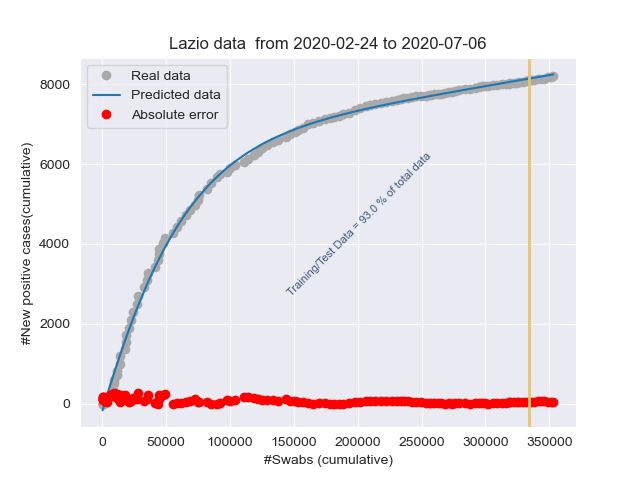
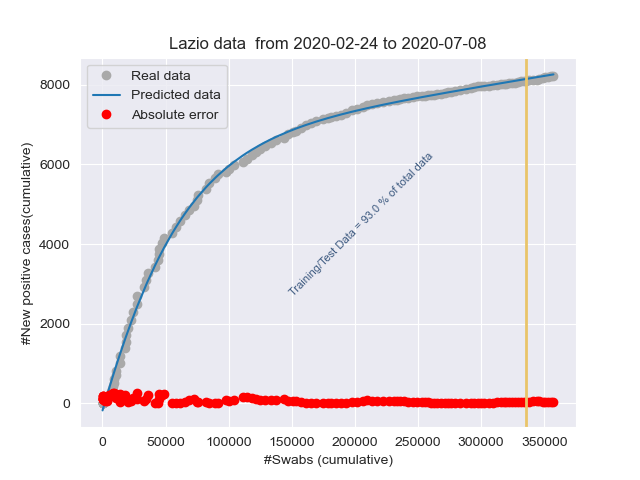
Add files via upload

diff --git a/stat_Friuli Venezia Giulia.html b/stat_Friuli Venezia Giulia.html
@@ -1,1 +1,1 @@
-<!DOCTYPE html><html lang="it"><head><title>Results</title><meta charset="utf-8"><meta name="viewport" content="width=device-width, initial-scale=1"><link rel="stylesheet" href="bootstrap.min.css"><script src="https://ajax.googleapis.com/ajax/libs/jquery/3.4.1/jquery.min.js"></script><script src="https://maxcdn.bootstrapcdn.com/bootstrap/3.4.1/js/bootstrap.min.js"></script></head><body><h3>Day: 2020-07-06</h3><p class="lead my-3">New positive cases: <b>0</b></p><p class="lead my-3">Variation of positive cases: <b>0.0%</b></p><p class="lead my-3">Number of swabs: <b>663.0</b></p><p class="lead my-3">Variation of swabs: <b>0.33%</b></p><p class="lead my-3">Postive cases/Swabs: <b>0.0 %</b></p><p class="lead my-3">Number of people admitted to Intensive care: <b>0</b></p><p class="lead my-3">Number of recovered people: <b>2.0</b></p><p class="lead my-3">Number of dead people: <b>0.0</b></p><h3>Total</h3><p class="lead my-3">Population of  Friuli Venezia Giulia: <b>1215220</b> <a href="http://dati.istat.it/Index.aspx?QueryId=18548" target="_blank">ISTAT data</a></p><p class="lead my-3">Total number of positive cases from 2020-02-24 00:00:00 to 2020-07-06: <b> 3326</b></p><p class="lead my-3">Total number of swabs from 2020-02-24 00:00:00 to 2020-07-06: <b> 200651</b></p><p class="lead my-3">TotalSwabs/Population: <b> 16.51%</b></p></body></html>
+<!DOCTYPE html><html lang="it"><head><title>Results</title><meta charset="utf-8"><meta name="viewport" content="width=device-width, initial-scale=1"><link rel="stylesheet" href="bootstrap.min.css"><script src="https://ajax.googleapis.com/ajax/libs/jquery/3.4.1/jquery.min.js"></script><script src="https://maxcdn.bootstrapcdn.com/bootstrap/3.4.1/js/bootstrap.min.js"></script></head><body><h3>Day: 2020-07-08</h3><p class="lead my-3">New positive cases: <b>4</b></p><p class="lead my-3">Variation of positive cases: <b>300.0%</b></p><p class="lead my-3">Number of swabs: <b>1827.0</b></p><p class="lead my-3">Variation of swabs: <b>0.9%</b></p><p class="lead my-3">Postive cases/Swabs: <b>0.22 %</b></p><p class="lead my-3">Number of people admitted to Intensive care: <b>0</b></p><p class="lead my-3">Number of recovered people: <b>-6.0</b></p><p class="lead my-3">Number of dead people: <b>0.0</b></p><h3>Total</h3><p class="lead my-3">Population of  Friuli Venezia Giulia: <b>1215220</b> <a href="http://dati.istat.it/Index.aspx?QueryId=18548" target="_blank">ISTAT data</a></p><p class="lead my-3">Total number of positive cases from 2020-02-24 00:00:00 to 2020-07-08: <b> 3331</b></p><p class="lead my-3">Total number of swabs from 2020-02-24 00:00:00 to 2020-07-08: <b> 204580</b></p><p class="lead my-3">TotalSwabs/Population: <b> 16.83%</b></p></body></html>

diff --git a/stat_Lombardia.html b/stat_Lombardia.html
@@ -1,1 +1,1 @@
-<!DOCTYPE html><html lang="it"><head><title>Results</title><meta charset="utf-8"><meta name="viewport" content="width=device-width, initial-scale=1"><link rel="stylesheet" href="bootstrap.min.css"><script src="https://ajax.googleapis.com/ajax/libs/jquery/3.4.1/jquery.min.js"></script><script src="https://maxcdn.bootstrapcdn.com/bootstrap/3.4.1/js/bootstrap.min.js"></script></head><body><h3>Day: 2020-07-06</h3><p class="lead my-3">New positive cases: <b>111</b></p><p class="lead my-3">Variation of positive cases: <b>13.27%</b></p><p class="lead my-3">Number of swabs: <b>5855.0</b></p><p class="lead my-3">Variation of swabs: <b>0.54%</b></p><p class="lead my-3">Postive cases/Swabs: <b>1.9 %</b></p><p class="lead my-3">Number of people admitted to Intensive care: <b>36</b></p><p class="lead my-3">Number of recovered people: <b>61.0</b></p><p class="lead my-3">Number of dead people: <b>3.0</b></p><h3>Total</h3><p class="lead my-3">Population of  Lombardia: <b>10060574</b> <a href="http://dati.istat.it/Index.aspx?QueryId=18548" target="_blank">ISTAT data</a></p><p class="lead my-3">Total number of positive cases from 2020-02-24 00:00:00 to 2020-07-06: <b> 94521</b></p><p class="lead my-3">Total number of swabs from 2020-02-24 00:00:00 to 2020-07-06: <b> 1088960</b></p><p class="lead my-3">TotalSwabs/Population: <b> 10.82%</b></p></body></html>
+<!DOCTYPE html><html lang="it"><head><title>Results</title><meta charset="utf-8"><meta name="viewport" content="width=device-width, initial-scale=1"><link rel="stylesheet" href="bootstrap.min.css"><script src="https://ajax.googleapis.com/ajax/libs/jquery/3.4.1/jquery.min.js"></script><script src="https://maxcdn.bootstrapcdn.com/bootstrap/3.4.1/js/bootstrap.min.js"></script></head><body><h3>Day: 2020-07-08</h3><p class="lead my-3">New positive cases: <b>71</b></p><p class="lead my-3">Variation of positive cases: <b>33.96%</b></p><p class="lead my-3">Number of swabs: <b>10675.0</b></p><p class="lead my-3">Variation of swabs: <b>0.98%</b></p><p class="lead my-3">Postive cases/Swabs: <b>0.67 %</b></p><p class="lead my-3">Number of people admitted to Intensive care: <b>34</b></p><p class="lead my-3">Number of recovered people: <b>673.0</b></p><p class="lead my-3">Number of dead people: <b>12.0</b></p><h3>Total</h3><p class="lead my-3">Population of  Lombardia: <b>10060574</b> <a href="http://dati.istat.it/Index.aspx?QueryId=18548" target="_blank">ISTAT data</a></p><p class="lead my-3">Total number of positive cases from 2020-02-24 00:00:00 to 2020-07-08: <b> 94645</b></p><p class="lead my-3">Total number of swabs from 2020-02-24 00:00:00 to 2020-07-08: <b> 1103015</b></p><p class="lead my-3">TotalSwabs/Population: <b> 10.96%</b></p></body></html>

diff --git a/stat_Emilia-Romagna.html b/stat_Emilia-Romagna.html
@@ -1,1 +1,1 @@
-<!DOCTYPE html><html lang="it"><head><title>Results</title><meta charset="utf-8"><meta name="viewport" content="width=device-width, initial-scale=1"><link rel="stylesheet" href="bootstrap.min.css"><script src="https://ajax.googleapis.com/ajax/libs/jquery/3.4.1/jquery.min.js"></script><script src="https://maxcdn.bootstrapcdn.com/bootstrap/3.4.1/js/bootstrap.min.js"></script></head><body><h3>Day: 2020-07-06</h3><p class="lead my-3">New positive cases: <b>38</b></p><p class="lead my-3">Variation of positive cases: <b>58.33%</b></p><p class="lead my-3">Number of swabs: <b>2371.0</b></p><p class="lead my-3">Variation of swabs: <b>0.46%</b></p><p class="lead my-3">Postive cases/Swabs: <b>1.6 %</b></p><p class="lead my-3">Number of people admitted to Intensive care: <b>9</b></p><p class="lead my-3">Number of recovered people: <b>3.0</b></p><p class="lead my-3">Number of dead people: <b>0.0</b></p><h3>Total</h3><p class="lead my-3">Population of  Emilia-Romagna: <b>4459477</b> <a href="http://dati.istat.it/Index.aspx?QueryId=18548" target="_blank">ISTAT data</a></p><p class="lead my-3">Total number of positive cases from 2020-02-24 00:00:00 to 2020-07-06: <b> 28679</b></p><p class="lead my-3">Total number of swabs from 2020-02-24 00:00:00 to 2020-07-06: <b> 519586</b></p><p class="lead my-3">TotalSwabs/Population: <b> 11.65%</b></p></body></html>
+<!DOCTYPE html><html lang="it"><head><title>Results</title><meta charset="utf-8"><meta name="viewport" content="width=device-width, initial-scale=1"><link rel="stylesheet" href="bootstrap.min.css"><script src="https://ajax.googleapis.com/ajax/libs/jquery/3.4.1/jquery.min.js"></script><script src="https://maxcdn.bootstrapcdn.com/bootstrap/3.4.1/js/bootstrap.min.js"></script></head><body><h3>Day: 2020-07-08</h3><p class="lead my-3">New positive cases: <b>49</b></p><p class="lead my-3">Variation of positive cases: <b>58.06%</b></p><p class="lead my-3">Number of swabs: <b>4877.0</b></p><p class="lead my-3">Variation of swabs: <b>0.93%</b></p><p class="lead my-3">Postive cases/Swabs: <b>1.0 %</b></p><p class="lead my-3">Number of people admitted to Intensive care: <b>10</b></p><p class="lead my-3">Number of recovered people: <b>38.0</b></p><p class="lead my-3">Number of dead people: <b>0.0</b></p><h3>Total</h3><p class="lead my-3">Population of  Emilia-Romagna: <b>4459477</b> <a href="http://dati.istat.it/Index.aspx?QueryId=18548" target="_blank">ISTAT data</a></p><p class="lead my-3">Total number of positive cases from 2020-02-24 00:00:00 to 2020-07-08: <b> 28759</b></p><p class="lead my-3">Total number of swabs from 2020-02-24 00:00:00 to 2020-07-08: <b> 531089</b></p><p class="lead my-3">TotalSwabs/Population: <b> 11.91%</b></p></body></html>

diff --git a/stat_Italy.html b/stat_Italy.html
@@ -1,1 +1,1 @@
-<!DOCTYPE html><html lang="it"><head><title>Results</title><meta charset="utf-8"><meta name="viewport" content="width=device-width, initial-scale=1"><link rel="stylesheet" href="bootstrap.min.css"><script src="https://ajax.googleapis.com/ajax/libs/jquery/3.4.1/jquery.min.js"></script><script src="https://maxcdn.bootstrapcdn.com/bootstrap/3.4.1/js/bootstrap.min.js"></script></head><body><h3>Day: 2020-07-06</h3><p class="lead my-3">New positive cases: <b>208</b></p><p class="lead my-3">Variation of positive cases: <b>8.33%</b></p><p class="lead my-3">Number of swabs: <b>22166.0</b></p><p class="lead my-3">Variation of swabs: <b>0.39%</b></p><p class="lead my-3">Postive cases/Swabs: <b>0.94 %</b></p><p class="lead my-3">Number of people admitted to Intensive care: <b>72</b></p><p class="lead my-3">Number of recovered people: <b>133.0</b></p><p class="lead my-3">Number of dead people: <b>8.0</b></p><h3>Total</h3><p class="lead my-3">Population of  Italy: <b>60359546</b> <a href="http://dati.istat.it/Index.aspx?QueryId=18548" target="_blank">ISTAT data</a></p><p class="lead my-3">Total number of positive cases from 2020-02-24 00:00:00 to 2020-07-06: <b> 241841</b></p><p class="lead my-3">Total number of swabs from 2020-02-24 00:00:00 to 2020-07-06: <b> 5660454</b></p><p class="lead my-3">TotalSwabs/Population: <b> 9.38%</b></p></body></html>
+<!DOCTYPE html><html lang="it"><head><title>Results</title><meta charset="utf-8"><meta name="viewport" content="width=device-width, initial-scale=1"><link rel="stylesheet" href="bootstrap.min.css"><script src="https://ajax.googleapis.com/ajax/libs/jquery/3.4.1/jquery.min.js"></script><script src="https://maxcdn.bootstrapcdn.com/bootstrap/3.4.1/js/bootstrap.min.js"></script></head><body><h3>Day: 2020-07-08</h3><p class="lead my-3">New positive cases: <b>193</b></p><p class="lead my-3">Variation of positive cases: <b>39.86%</b></p><p class="lead my-3">Number of swabs: <b>50443.0</b></p><p class="lead my-3">Variation of swabs: <b>0.88%</b></p><p class="lead my-3">Postive cases/Swabs: <b>0.38 %</b></p><p class="lead my-3">Number of people admitted to Intensive care: <b>71</b></p><p class="lead my-3">Number of recovered people: <b>825.0</b></p><p class="lead my-3">Number of dead people: <b>15.0</b></p><h3>Total</h3><p class="lead my-3">Population of  Italy: <b>60359546</b> <a href="http://dati.istat.it/Index.aspx?QueryId=18548" target="_blank">ISTAT data</a></p><p class="lead my-3">Total number of positive cases from 2020-02-24 00:00:00 to 2020-07-08: <b> 242172</b></p><p class="lead my-3">Total number of swabs from 2020-02-24 00:00:00 to 2020-07-08: <b> 5754116</b></p><p class="lead my-3">TotalSwabs/Population: <b> 9.53%</b></p></body></html>

diff --git a/stat_Piemonte.html b/stat_Piemonte.html
@@ -1,1 +1,1 @@
-<!DOCTYPE html><html lang="it"><head><title>Results</title><meta charset="utf-8"><meta name="viewport" content="width=device-width, initial-scale=1"><link rel="stylesheet" href="bootstrap.min.css"><script src="https://ajax.googleapis.com/ajax/libs/jquery/3.4.1/jquery.min.js"></script><script src="https://maxcdn.bootstrapcdn.com/bootstrap/3.4.1/js/bootstrap.min.js"></script></head><body><h3>Day: 2020-07-06</h3><p class="lead my-3">New positive cases: <b>6</b></p><p class="lead my-3">Variation of positive cases: <b>-66.67%</b></p><p class="lead my-3">Number of swabs: <b>1461.0</b></p><p class="lead my-3">Variation of swabs: <b>0.34%</b></p><p class="lead my-3">Postive cases/Swabs: <b>0.41 %</b></p><p class="lead my-3">Number of people admitted to Intensive care: <b>9</b></p><p class="lead my-3">Number of recovered people: <b>13.0</b></p><p class="lead my-3">Number of dead people: <b>2.0</b></p><h3>Total</h3><p class="lead my-3">Population of  Piemonte: <b>4356406</b> <a href="http://dati.istat.it/Index.aspx?QueryId=18548" target="_blank">ISTAT data</a></p><p class="lead my-3">Total number of positive cases from 2020-02-24 00:00:00 to 2020-07-06: <b> 31429</b></p><p class="lead my-3">Total number of swabs from 2020-02-24 00:00:00 to 2020-07-06: <b> 431761</b></p><p class="lead my-3">TotalSwabs/Population: <b> 9.91%</b></p></body></html>
+<!DOCTYPE html><html lang="it"><head><title>Results</title><meta charset="utf-8"><meta name="viewport" content="width=device-width, initial-scale=1"><link rel="stylesheet" href="bootstrap.min.css"><script src="https://ajax.googleapis.com/ajax/libs/jquery/3.4.1/jquery.min.js"></script><script src="https://maxcdn.bootstrapcdn.com/bootstrap/3.4.1/js/bootstrap.min.js"></script></head><body><h3>Day: 2020-07-08</h3><p class="lead my-3">New positive cases: <b>25</b></p><p class="lead my-3">Variation of positive cases: <b>400.0%</b></p><p class="lead my-3">Number of swabs: <b>3415.0</b></p><p class="lead my-3">Variation of swabs: <b>0.79%</b></p><p class="lead my-3">Postive cases/Swabs: <b>0.73 %</b></p><p class="lead my-3">Number of people admitted to Intensive care: <b>8</b></p><p class="lead my-3">Number of recovered people: <b>58.0</b></p><p class="lead my-3">Number of dead people: <b>0.0</b></p><h3>Total</h3><p class="lead my-3">Population of  Piemonte: <b>4356406</b> <a href="http://dati.istat.it/Index.aspx?QueryId=18548" target="_blank">ISTAT data</a></p><p class="lead my-3">Total number of positive cases from 2020-02-24 00:00:00 to 2020-07-08: <b> 31459</b></p><p class="lead my-3">Total number of swabs from 2020-02-24 00:00:00 to 2020-07-08: <b> 438250</b></p><p class="lead my-3">TotalSwabs/Population: <b> 10.06%</b></p></body></html>

diff --git a/stat_P.A. Bolzano.html b/stat_P.A. Bolzano.html
@@ -1,1 +1,1 @@
-<!DOCTYPE html><html lang="it"><head><title>Results</title><meta charset="utf-8"><meta name="viewport" content="width=device-width, initial-scale=1"><link rel="stylesheet" href="bootstrap.min.css"><script src="https://ajax.googleapis.com/ajax/libs/jquery/3.4.1/jquery.min.js"></script><script src="https://maxcdn.bootstrapcdn.com/bootstrap/3.4.1/js/bootstrap.min.js"></script></head><body><h3>Day: 2020-07-06</h3><p class="lead my-3">New positive cases: <b>0</b></p><p class="lead my-3">Variation of positive cases: <b>-100.0%</b></p><p class="lead my-3">Number of swabs: <b>156.0</b></p><p class="lead my-3">Variation of swabs: <b>0.18%</b></p><p class="lead my-3">Postive cases/Swabs: <b>0.0 %</b></p><p class="lead my-3">Number of people admitted to Intensive care: <b>0</b></p><p class="lead my-3">Number of recovered people: <b>2.0</b></p><p class="lead my-3">Number of dead people: <b>0.0</b></p><h3>Total</h3><p class="lead my-3">Population of  P.A. Bolzano: <b>531178</b> <a href="http://dati.istat.it/Index.aspx?QueryId=18548" target="_blank">ISTAT data</a></p><p class="lead my-3">Total number of positive cases from 2020-02-24 00:00:00 to 2020-07-06: <b> 2646</b></p><p class="lead my-3">Total number of swabs from 2020-02-24 00:00:00 to 2020-07-06: <b> 87392</b></p><p class="lead my-3">TotalSwabs/Population: <b> 16.45%</b></p></body></html>
+<!DOCTYPE html><html lang="it"><head><title>Results</title><meta charset="utf-8"><meta name="viewport" content="width=device-width, initial-scale=1"><link rel="stylesheet" href="bootstrap.min.css"><script src="https://ajax.googleapis.com/ajax/libs/jquery/3.4.1/jquery.min.js"></script><script src="https://maxcdn.bootstrapcdn.com/bootstrap/3.4.1/js/bootstrap.min.js"></script></head><body><h3>Day: 2020-07-08</h3><p class="lead my-3">New positive cases: <b>2</b></p><p class="lead my-3">Variation of positive cases: <b>100.0%</b></p><p class="lead my-3">Number of swabs: <b>688.0</b></p><p class="lead my-3">Variation of swabs: <b>0.78%</b></p><p class="lead my-3">Postive cases/Swabs: <b>0.29 %</b></p><p class="lead my-3">Number of people admitted to Intensive care: <b>0</b></p><p class="lead my-3">Number of recovered people: <b>2.0</b></p><p class="lead my-3">Number of dead people: <b>0.0</b></p><h3>Total</h3><p class="lead my-3">Population of  P.A. Bolzano: <b>531178</b> <a href="http://dati.istat.it/Index.aspx?QueryId=18548" target="_blank">ISTAT data</a></p><p class="lead my-3">Total number of positive cases from 2020-02-24 00:00:00 to 2020-07-08: <b> 2649</b></p><p class="lead my-3">Total number of swabs from 2020-02-24 00:00:00 to 2020-07-08: <b> 88462</b></p><p class="lead my-3">TotalSwabs/Population: <b> 16.65%</b></p></body></html>

diff --git a/stat_Toscana.html b/stat_Toscana.html
@@ -1,1 +1,1 @@
-<!DOCTYPE html><html lang="it"><head><title>Results</title><meta charset="utf-8"><meta name="viewport" content="width=device-width, initial-scale=1"><link rel="stylesheet" href="bootstrap.min.css"><script src="https://ajax.googleapis.com/ajax/libs/jquery/3.4.1/jquery.min.js"></script><script src="https://maxcdn.bootstrapcdn.com/bootstrap/3.4.1/js/bootstrap.min.js"></script></head><body><h3>Day: 2020-07-06</h3><p class="lead my-3">New positive cases: <b>2</b></p><p class="lead my-3">Variation of positive cases: <b>-77.78%</b></p><p class="lead my-3">Number of swabs: <b>1313.0</b></p><p class="lead my-3">Variation of swabs: <b>0.37%</b></p><p class="lead my-3">Postive cases/Swabs: <b>0.15 %</b></p><p class="lead my-3">Number of people admitted to Intensive care: <b>2</b></p><p class="lead my-3">Number of recovered people: <b>0.0</b></p><p class="lead my-3">Number of dead people: <b>0.0</b></p><h3>Total</h3><p class="lead my-3">Population of  Toscana: <b>3729641</b> <a href="http://dati.istat.it/Index.aspx?QueryId=18548" target="_blank">ISTAT data</a></p><p class="lead my-3">Total number of positive cases from 2020-02-24 00:00:00 to 2020-07-06: <b> 10287</b></p><p class="lead my-3">Total number of swabs from 2020-02-24 00:00:00 to 2020-07-06: <b> 353862</b></p><p class="lead my-3">TotalSwabs/Population: <b> 9.49%</b></p></body></html>
+<!DOCTYPE html><html lang="it"><head><title>Results</title><meta charset="utf-8"><meta name="viewport" content="width=device-width, initial-scale=1"><link rel="stylesheet" href="bootstrap.min.css"><script src="https://ajax.googleapis.com/ajax/libs/jquery/3.4.1/jquery.min.js"></script><script src="https://maxcdn.bootstrapcdn.com/bootstrap/3.4.1/js/bootstrap.min.js"></script></head><body><h3>Day: 2020-07-08</h3><p class="lead my-3">New positive cases: <b>7</b></p><p class="lead my-3">Variation of positive cases: <b>-63.16%</b></p><p class="lead my-3">Number of swabs: <b>3715.0</b></p><p class="lead my-3">Variation of swabs: <b>1.04%</b></p><p class="lead my-3">Postive cases/Swabs: <b>0.19 %</b></p><p class="lead my-3">Number of people admitted to Intensive care: <b>2</b></p><p class="lead my-3">Number of recovered people: <b>3.0</b></p><p class="lead my-3">Number of dead people: <b>2.0</b></p><h3>Total</h3><p class="lead my-3">Population of  Toscana: <b>3729641</b> <a href="http://dati.istat.it/Index.aspx?QueryId=18548" target="_blank">ISTAT data</a></p><p class="lead my-3">Total number of positive cases from 2020-02-24 00:00:00 to 2020-07-08: <b> 10313</b></p><p class="lead my-3">Total number of swabs from 2020-02-24 00:00:00 to 2020-07-08: <b> 360262</b></p><p class="lead my-3">TotalSwabs/Population: <b> 9.66%</b></p></body></html>

diff --git a/stat_P.A. Trento.html b/stat_P.A. Trento.html
@@ -1,1 +1,1 @@
-<!DOCTYPE html><html lang="it"><head><title>Results</title><meta charset="utf-8"><meta name="viewport" content="width=device-width, initial-scale=1"><link rel="stylesheet" href="bootstrap.min.css"><script src="https://ajax.googleapis.com/ajax/libs/jquery/3.4.1/jquery.min.js"></script><script src="https://maxcdn.bootstrapcdn.com/bootstrap/3.4.1/js/bootstrap.min.js"></script></head><body><h3>Day: 2020-07-06</h3><p class="lead my-3">New positive cases: <b>0</b></p><p class="lead my-3">Variation of positive cases: <b>0.0%</b></p><p class="lead my-3">Number of swabs: <b>143.0</b></p><p class="lead my-3">Variation of swabs: <b>0.11%</b></p><p class="lead my-3">Postive cases/Swabs: <b>0.0 %</b></p><p class="lead my-3">Number of people admitted to Intensive care: <b>0</b></p><p class="lead my-3">Number of recovered people: <b>5.0</b></p><p class="lead my-3">Number of dead people: <b>0.0</b></p><h3>Total</h3><p class="lead my-3">Population of  P.A. Trento: <b>541098</b> <a href="http://dati.istat.it/Index.aspx?QueryId=18548" target="_blank">ISTAT data</a></p><p class="lead my-3">Total number of positive cases from 2020-02-24 00:00:00 to 2020-07-06: <b> 4486</b></p><p class="lead my-3">Total number of swabs from 2020-02-24 00:00:00 to 2020-07-06: <b> 128029</b></p><p class="lead my-3">TotalSwabs/Population: <b> 23.66%</b></p></body></html>
+<!DOCTYPE html><html lang="it"><head><title>Results</title><meta charset="utf-8"><meta name="viewport" content="width=device-width, initial-scale=1"><link rel="stylesheet" href="bootstrap.min.css"><script src="https://ajax.googleapis.com/ajax/libs/jquery/3.4.1/jquery.min.js"></script><script src="https://maxcdn.bootstrapcdn.com/bootstrap/3.4.1/js/bootstrap.min.js"></script></head><body><h3>Day: 2020-07-08</h3><p class="lead my-3">New positive cases: <b>0</b></p><p class="lead my-3">Variation of positive cases: <b>-100.0%</b></p><p class="lead my-3">Number of swabs: <b>583.0</b></p><p class="lead my-3">Variation of swabs: <b>0.45%</b></p><p class="lead my-3">Postive cases/Swabs: <b>0.0 %</b></p><p class="lead my-3">Number of people admitted to Intensive care: <b>0</b></p><p class="lead my-3">Number of recovered people: <b>3.0</b></p><p class="lead my-3">Number of dead people: <b>0.0</b></p><h3>Total</h3><p class="lead my-3">Population of  P.A. Trento: <b>541098</b> <a href="http://dati.istat.it/Index.aspx?QueryId=18548" target="_blank">ISTAT data</a></p><p class="lead my-3">Total number of positive cases from 2020-02-24 00:00:00 to 2020-07-08: <b> 4489</b></p><p class="lead my-3">Total number of swabs from 2020-02-24 00:00:00 to 2020-07-08: <b> 129180</b></p><p class="lead my-3">TotalSwabs/Population: <b> 23.87%</b></p></body></html>

diff --git a/stat_Veneto.html b/stat_Veneto.html
@@ -1,1 +1,1 @@
-<!DOCTYPE html><html lang="it"><head><title>Results</title><meta charset="utf-8"><meta name="viewport" content="width=device-width, initial-scale=1"><link rel="stylesheet" href="bootstrap.min.css"><script src="https://ajax.googleapis.com/ajax/libs/jquery/3.4.1/jquery.min.js"></script><script src="https://maxcdn.bootstrapcdn.com/bootstrap/3.4.1/js/bootstrap.min.js"></script></head><body><h3>Day: 2020-07-06</h3><p class="lead my-3">New positive cases: <b>1</b></p><p class="lead my-3">Variation of positive cases: <b>-87.5%</b></p><p class="lead my-3">Number of swabs: <b>3402.0</b></p><p class="lead my-3">Variation of swabs: <b>0.34%</b></p><p class="lead my-3">Postive cases/Swabs: <b>0.03 %</b></p><p class="lead my-3">Number of people admitted to Intensive care: <b>2</b></p><p class="lead my-3">Number of recovered people: <b>4.0</b></p><p class="lead my-3">Number of dead people: <b>1.0</b></p><h3>Total</h3><p class="lead my-3">Population of  Veneto: <b>4905854</b> <a href="http://dati.istat.it/Index.aspx?QueryId=18548" target="_blank">ISTAT data</a></p><p class="lead my-3">Total number of positive cases from 2020-02-24 00:00:00 to 2020-07-06: <b> 19326</b></p><p class="lead my-3">Total number of swabs from 2020-02-24 00:00:00 to 2020-07-06: <b> 1013235</b></p><p class="lead my-3">TotalSwabs/Population: <b> 20.65%</b></p></body></html>
+<!DOCTYPE html><html lang="it"><head><title>Results</title><meta charset="utf-8"><meta name="viewport" content="width=device-width, initial-scale=1"><link rel="stylesheet" href="bootstrap.min.css"><script src="https://ajax.googleapis.com/ajax/libs/jquery/3.4.1/jquery.min.js"></script><script src="https://maxcdn.bootstrapcdn.com/bootstrap/3.4.1/js/bootstrap.min.js"></script></head><body><h3>Day: 2020-07-08</h3><p class="lead my-3">New positive cases: <b>7</b></p><p class="lead my-3">Variation of positive cases: <b>-50.0%</b></p><p class="lead my-3">Number of swabs: <b>9249.0</b></p><p class="lead my-3">Variation of swabs: <b>0.9%</b></p><p class="lead my-3">Postive cases/Swabs: <b>0.08 %</b></p><p class="lead my-3">Number of people admitted to Intensive care: <b>3</b></p><p class="lead my-3">Number of recovered people: <b>6.0</b></p><p class="lead my-3">Number of dead people: <b>0.0</b></p><h3>Total</h3><p class="lead my-3">Population of  Veneto: <b>4905854</b> <a href="http://dati.istat.it/Index.aspx?QueryId=18548" target="_blank">ISTAT data</a></p><p class="lead my-3">Total number of positive cases from 2020-02-24 00:00:00 to 2020-07-08: <b> 19347</b></p><p class="lead my-3">Total number of swabs from 2020-02-24 00:00:00 to 2020-07-08: <b> 1031906</b></p><p class="lead my-3">TotalSwabs/Population: <b> 21.03%</b></p></body></html>

diff --git a/stat_Campania.html b/stat_Campania.html
@@ -1,1 +1,1 @@
-<!DOCTYPE html><html lang="it"><head><title>Results</title><meta charset="utf-8"><meta name="viewport" content="width=device-width, initial-scale=1"><link rel="stylesheet" href="bootstrap.min.css"><script src="https://ajax.googleapis.com/ajax/libs/jquery/3.4.1/jquery.min.js"></script><script src="https://maxcdn.bootstrapcdn.com/bootstrap/3.4.1/js/bootstrap.min.js"></script></head><body><h3>Day: 2020-07-06</h3><p class="lead my-3">New positive cases: <b>27</b></p><p class="lead my-3">Variation of positive cases: <b>440.0%</b></p><p class="lead my-3">Number of swabs: <b>775.0</b></p><p class="lead my-3">Variation of swabs: <b>0.26%</b></p><p class="lead my-3">Postive cases/Swabs: <b>3.48 %</b></p><p class="lead my-3">Number of people admitted to Intensive care: <b>0</b></p><p class="lead my-3">Number of recovered people: <b>1.0</b></p><p class="lead my-3">Number of dead people: <b>0.0</b></p><h3>Total</h3><p class="lead my-3">Population of  Campania: <b>5801692</b> <a href="http://dati.istat.it/Index.aspx?QueryId=18548" target="_blank">ISTAT data</a></p><p class="lead my-3">Total number of positive cases from 2020-02-24 00:00:00 to 2020-07-06: <b> 4746</b></p><p class="lead my-3">Total number of swabs from 2020-02-24 00:00:00 to 2020-07-06: <b> 293368</b></p><p class="lead my-3">TotalSwabs/Population: <b> 5.06%</b></p></body></html>
+<!DOCTYPE html><html lang="it"><head><title>Results</title><meta charset="utf-8"><meta name="viewport" content="width=device-width, initial-scale=1"><link rel="stylesheet" href="bootstrap.min.css"><script src="https://ajax.googleapis.com/ajax/libs/jquery/3.4.1/jquery.min.js"></script><script src="https://maxcdn.bootstrapcdn.com/bootstrap/3.4.1/js/bootstrap.min.js"></script></head><body><h3>Day: 2020-07-08</h3><p class="lead my-3">New positive cases: <b>3</b></p><p class="lead my-3">Variation of positive cases: <b>200.0%</b></p><p class="lead my-3">Number of swabs: <b>1918.0</b></p><p class="lead my-3">Variation of swabs: <b>0.65%</b></p><p class="lead my-3">Postive cases/Swabs: <b>0.16 %</b></p><p class="lead my-3">Number of people admitted to Intensive care: <b>0</b></p><p class="lead my-3">Number of recovered people: <b>1.0</b></p><p class="lead my-3">Number of dead people: <b>0.0</b></p><h3>Total</h3><p class="lead my-3">Population of  Campania: <b>5801692</b> <a href="http://dati.istat.it/Index.aspx?QueryId=18548" target="_blank">ISTAT data</a></p><p class="lead my-3">Total number of positive cases from 2020-02-24 00:00:00 to 2020-07-08: <b> 4750</b></p><p class="lead my-3">Total number of swabs from 2020-02-24 00:00:00 to 2020-07-08: <b> 296630</b></p><p class="lead my-3">TotalSwabs/Population: <b> 5.11%</b></p></body></html>

diff --git a/stat_Liguria.html b/stat_Liguria.html
@@ -1,1 +1,1 @@
-<!DOCTYPE html><html lang="it"><head><title>Results</title><meta charset="utf-8"><meta name="viewport" content="width=device-width, initial-scale=1"><link rel="stylesheet" href="bootstrap.min.css"><script src="https://ajax.googleapis.com/ajax/libs/jquery/3.4.1/jquery.min.js"></script><script src="https://maxcdn.bootstrapcdn.com/bootstrap/3.4.1/js/bootstrap.min.js"></script></head><body><h3>Day: 2020-07-06</h3><p class="lead my-3">New positive cases: <b>2</b></p><p class="lead my-3">Variation of positive cases: <b>-75.0%</b></p><p class="lead my-3">Number of swabs: <b>575.0</b></p><p class="lead my-3">Variation of swabs: <b>0.37%</b></p><p class="lead my-3">Postive cases/Swabs: <b>0.35 %</b></p><p class="lead my-3">Number of people admitted to Intensive care: <b>0</b></p><p class="lead my-3">Number of recovered people: <b>2.0</b></p><p class="lead my-3">Number of dead people: <b>0.0</b></p><h3>Total</h3><p class="lead my-3">Population of  Liguria: <b>1550640</b> <a href="http://dati.istat.it/Index.aspx?QueryId=18548" target="_blank">ISTAT data</a></p><p class="lead my-3">Total number of positive cases from 2020-02-24 00:00:00 to 2020-07-06: <b> 10001</b></p><p class="lead my-3">Total number of swabs from 2020-02-24 00:00:00 to 2020-07-06: <b> 154636</b></p><p class="lead my-3">TotalSwabs/Population: <b> 9.97%</b></p></body></html>
+<!DOCTYPE html><html lang="it"><head><title>Results</title><meta charset="utf-8"><meta name="viewport" content="width=device-width, initial-scale=1"><link rel="stylesheet" href="bootstrap.min.css"><script src="https://ajax.googleapis.com/ajax/libs/jquery/3.4.1/jquery.min.js"></script><script src="https://maxcdn.bootstrapcdn.com/bootstrap/3.4.1/js/bootstrap.min.js"></script></head><body><h3>Day: 2020-07-08</h3><p class="lead my-3">New positive cases: <b>3</b></p><p class="lead my-3">Variation of positive cases: <b>50.0%</b></p><p class="lead my-3">Number of swabs: <b>1328.0</b></p><p class="lead my-3">Variation of swabs: <b>0.85%</b></p><p class="lead my-3">Postive cases/Swabs: <b>0.23 %</b></p><p class="lead my-3">Number of people admitted to Intensive care: <b>1</b></p><p class="lead my-3">Number of recovered people: <b>1.0</b></p><p class="lead my-3">Number of dead people: <b>0.0</b></p><h3>Total</h3><p class="lead my-3">Population of  Liguria: <b>1550640</b> <a href="http://dati.istat.it/Index.aspx?QueryId=18548" target="_blank">ISTAT data</a></p><p class="lead my-3">Total number of positive cases from 2020-02-24 00:00:00 to 2020-07-08: <b> 10006</b></p><p class="lead my-3">Total number of swabs from 2020-02-24 00:00:00 to 2020-07-08: <b> 157429</b></p><p class="lead my-3">TotalSwabs/Population: <b> 10.15%</b></p></body></html>

diff --git a/stat_Lazio.html b/stat_Lazio.html
@@ -1,1 +1,1 @@
-<!DOCTYPE html><html lang="it"><head><title>Results</title><meta charset="utf-8"><meta name="viewport" content="width=device-width, initial-scale=1"><link rel="stylesheet" href="bootstrap.min.css"><script src="https://ajax.googleapis.com/ajax/libs/jquery/3.4.1/jquery.min.js"></script><script src="https://maxcdn.bootstrapcdn.com/bootstrap/3.4.1/js/bootstrap.min.js"></script></head><body><h3>Day: 2020-07-06</h3><p class="lead my-3">New positive cases: <b>19</b></p><p class="lead my-3">Variation of positive cases: <b>35.71%</b></p><p class="lead my-3">Number of swabs: <b>2298.0</b></p><p class="lead my-3">Variation of swabs: <b>0.65%</b></p><p class="lead my-3">Postive cases/Swabs: <b>0.83 %</b></p><p class="lead my-3">Number of people admitted to Intensive care: <b>12</b></p><p class="lead my-3">Number of recovered people: <b>9.0</b></p><p class="lead my-3">Number of dead people: <b>1.0</b></p><h3>Total</h3><p class="lead my-3">Population of  Lazio: <b>5879082</b> <a href="http://dati.istat.it/Index.aspx?QueryId=18548" target="_blank">ISTAT data</a></p><p class="lead my-3">Total number of positive cases from 2020-02-24 00:00:00 to 2020-07-06: <b> 8204</b></p><p class="lead my-3">Total number of swabs from 2020-02-24 00:00:00 to 2020-07-06: <b> 353276</b></p><p class="lead my-3">TotalSwabs/Population: <b> 6.01%</b></p></body></html>
+<!DOCTYPE html><html lang="it"><head><title>Results</title><meta charset="utf-8"><meta name="viewport" content="width=device-width, initial-scale=1"><link rel="stylesheet" href="bootstrap.min.css"><script src="https://ajax.googleapis.com/ajax/libs/jquery/3.4.1/jquery.min.js"></script><script src="https://maxcdn.bootstrapcdn.com/bootstrap/3.4.1/js/bootstrap.min.js"></script></head><body><h3>Day: 2020-07-08</h3><p class="lead my-3">New positive cases: <b>14</b></p><p class="lead my-3">Variation of positive cases: <b>180.0%</b></p><p class="lead my-3">Number of swabs: <b>2002.0</b></p><p class="lead my-3">Variation of swabs: <b>0.56%</b></p><p class="lead my-3">Postive cases/Swabs: <b>0.7 %</b></p><p class="lead my-3">Number of people admitted to Intensive care: <b>13</b></p><p class="lead my-3">Number of recovered people: <b>13.0</b></p><p class="lead my-3">Number of dead people: <b>0.0</b></p><h3>Total</h3><p class="lead my-3">Population of  Lazio: <b>5879082</b> <a href="http://dati.istat.it/Index.aspx?QueryId=18548" target="_blank">ISTAT data</a></p><p class="lead my-3">Total number of positive cases from 2020-02-24 00:00:00 to 2020-07-08: <b> 8223</b></p><p class="lead my-3">Total number of swabs from 2020-02-24 00:00:00 to 2020-07-08: <b> 357307</b></p><p class="lead my-3">TotalSwabs/Population: <b> 6.08%</b></p></body></html>
